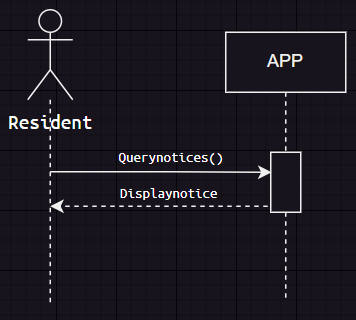
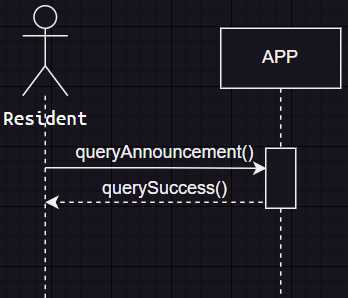
end

Changed region(s): [[0.0, 0.0906, 1.0, 1.0], [0.0575, 0.0, 0.2011, 0.3322], [0.7471, 0.151, 0.8621, 0.2114]]

diff --git a/answer.md b/answer.md
@@ -1,0 +1,58 @@
+# 第4次作業-作業-HW4
+>
+>學號：111111102
+><br />
+>姓名：張紘榤
+><br />
+>作業撰寫時間：70 (mins，包含程式撰寫時間)
+><br />
+>最後撰寫文件日期：2024/05/22
+>
+
+本份文件包含以下主題：(至少需下面兩項，若是有多者可以自行新增)
+- [x] 說明內容
+- [x] 個人認為完成作業須具備觀念
+
+## 說明程式與內容
+### a.初步類別圖  
+![alt text](a.png)
+### b.系統循序圖  
+#### 1：  
+![alt text](1b.png)  
+合約1：bindAPP() 
+操作：bindAPP()
+交互參照：住戶向警衛提供個人資料綁定APP。  
+前置條件：住戶已向警衛確認資料，登入APP並選擇綁定手機APP功能。  
+後置條件：用戶的個人資料已被確認並成功綁定至APP。
+#### 2：  
+![alt text](2b.png)  
+合約2：submitAnnouncement()  
+操作：submitAnnouncement()  
+交互參照：委員通過APP提交公告內容。  
+前置條件：委員已登入APP，並選擇發布社區公告功能。  
+後置條件：社區公告已成功發布至系統。
+#### 3：  
+![alt text](3b.png)  
+合約3：queryAnnouncement()  
+操作：queryAnnouncement()  
+交互參照：住戶通過APP查詢公告。  
+前置條件：住戶已登入APP，並選擇查詢社區公告功能。  
+後置條件：系統顯示相應的社區公告列表。
+#### 4：  
+![alt text](4b.png)  
+合約4：modifyOrDeleteNotification()  
+操作：modifyOrDeleteNotification()  
+交互參照：委員在APP上選擇公告並進行修改或刪除。  
+前置條件：委員已登入APP，並修改或刪除社區公告。  
+後置條件：委員已登入APP，並成功修改或刪除社區公告。
+#### 5：  
+![alt text](5b.png)  
+合約5：selectNoticeAndProvideOpinion()  
+操作：selectNoticeAndProvideOpinion()  
+交互參照：住戶在APP上選擇特定的社區公告並提供意見。  
+前置條件：住戶已使用APP選擇回應社區公告功能並提供意見。  
+後置條件：系統確認已成功回應並顯示確認訊息給用戶。
+
+## 個人認為完成作業須具備觀念
+初步類別圖和系統循序圖都是建立軟體系統設計的基礎  
+繪畫初步類別圖要先找出類別與屬性，繪製系統循序圖要理解各個符號所代表的意思，也要多多觀察避免畫錯。
